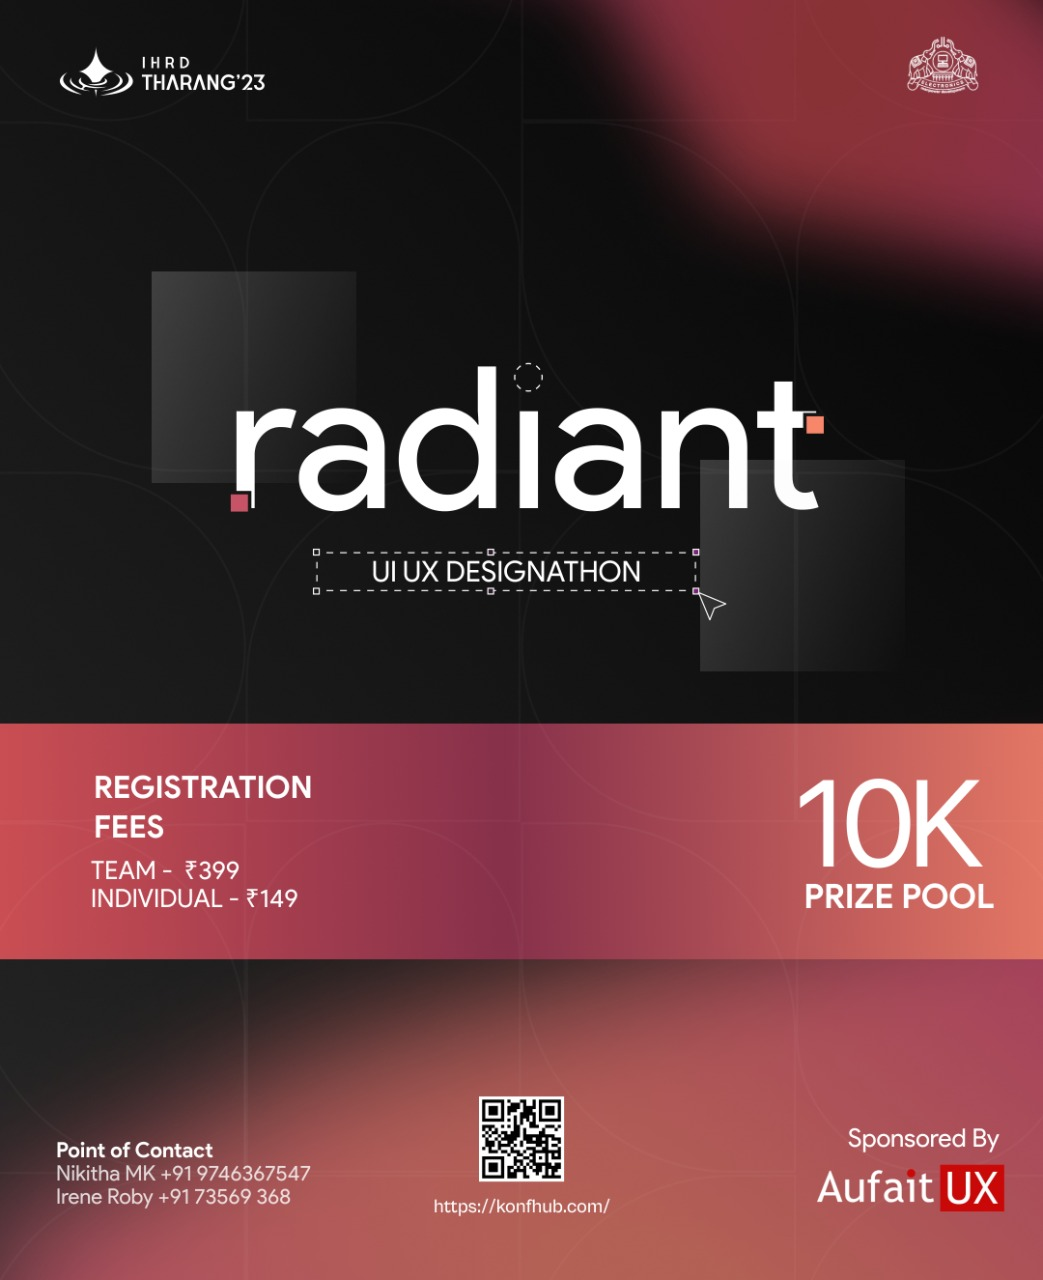
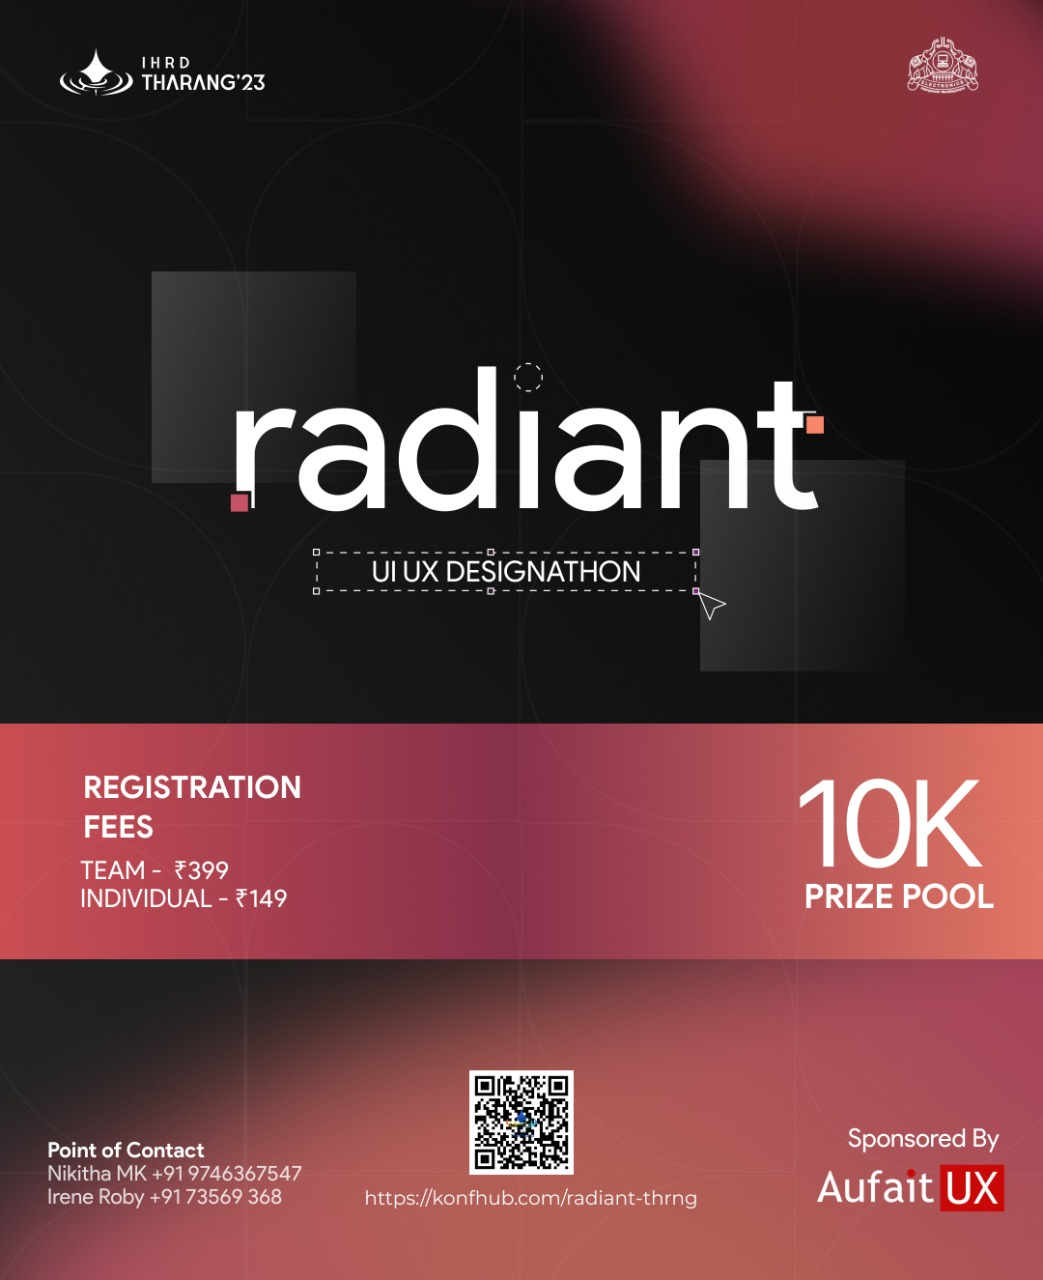
updated event-radiant

Changed region(s): [[0.0614, 0.5938, 0.3068, 0.7188], [0.3988, 0.8125, 0.5829, 0.9688], [0.0307, 0.875, 0.3068, 0.9375]]

diff --git a/src/assets/fake-data/dataProject.js b/src/assets/fake-data/dataProject.js
@@ -40,9 +40,9 @@ const dataProject = [
         img: img9,
         category: '#competition',
         desc:"Creativity awaits!! Looking for a chance to stand out and show off your unique design style? Then this is the chance to let your artistic side shine!.Introducing Radiant by IHRD Tharang- the ultimate online UI/UX designathon. ",
-        link:"https://konfhub.com/Sfc-tharang?utm_source=tharangweb",
+        link:"https://konfhub.com/radiant-thrng",
         prize:"₹10,000",
-        fee:"₹299 (Team)",
+        fee:"₹399 (Team)",
         available:"Open"
     },
     {
